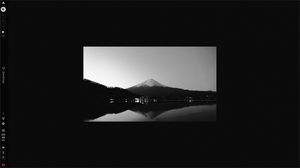
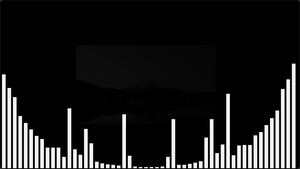
docs: clean bars screenshot, promote video to its own Demo section

diff --git a/README.md b/README.md
@@ -39,10 +39,16 @@ No-root alternative: `make install PREFIX=~/.local` (needs `~/.local/bin` on
 your `PATH`). The repo also carries an Arch `PKGBUILD`, see
 [Installing](#installing).
 
-Watching it live beats reading about it. A 38-second capture of a small test
+---
+
+## Demo
+
+Watching it live beats reading about it — a 38-second capture of a small test
 track, retimed slightly for clarity:
 
-<video controls src="docs/media/zava-demo.mp4"></video>
+<video controls width="100%" src="docs/media/zava-demo.mp4"></video>
+
+[watch in browser — docs/media/zava-demo.mp4](docs/media/zava-demo.mp4)
 
 | 1 s | 12 s | 24 s | 36 s |
 |-----|------|------|------|
